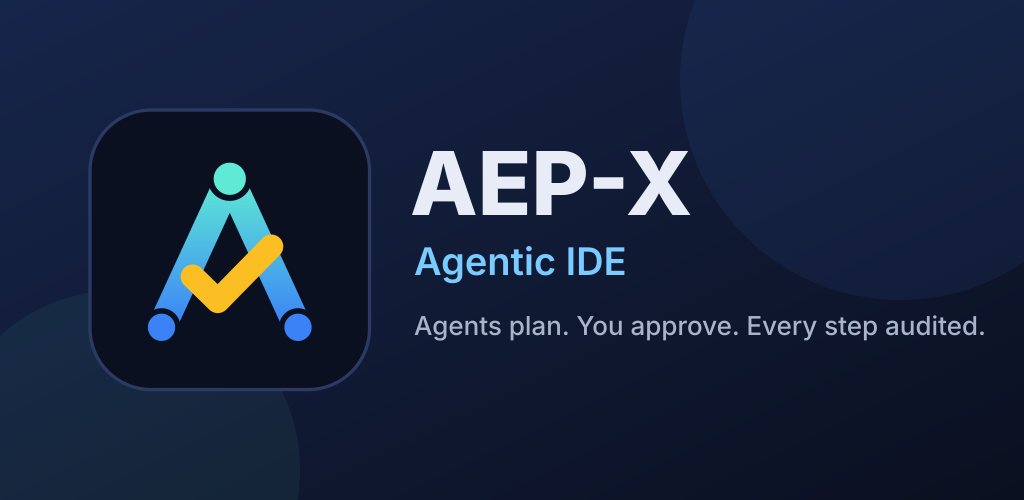
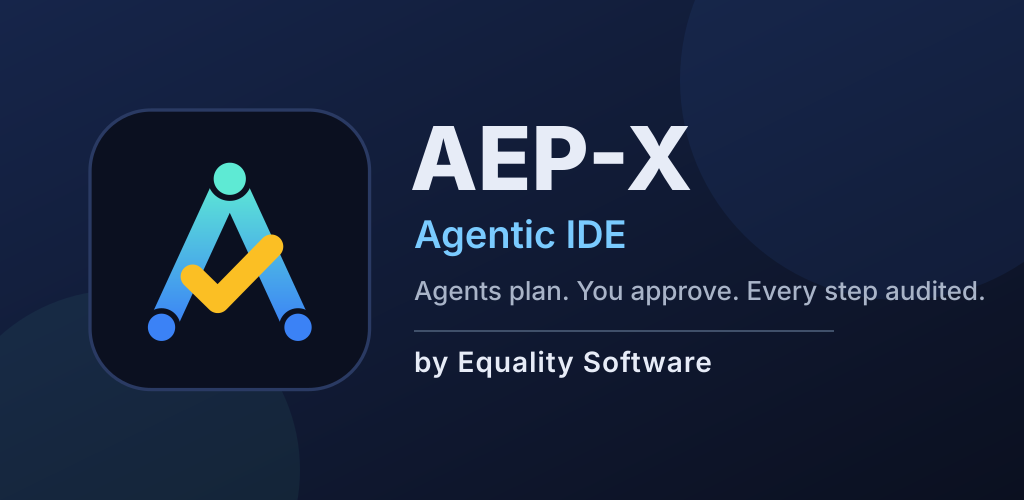
feat(brand): add 'by Equality Software' to the wordmark, Play feature graphic and website header
App icons stay text-free (illegible at launcher sizes; stores discourage text in icons).

Claude-Session: https://claude.ai/code/session_01T8qKsS8BzSyrUcBnX9VhwC

Changed region(s): [[0.4062, 0.24, 0.9688, 0.6], [0.4062, 0.63, 0.9688, 0.75]]

diff --git a/platform/saas-ide/distribution/website/wordpress/aepx-downloads-block.html b/platform/saas-ide/distribution/website/wordpress/aepx-downloads-block.html
@@ -5,7 +5,7 @@
 .aepx-page .hero{display:flex;gap:1.25rem;align-items:center;flex-wrap:wrap}
 .aepx-page .hero img{width:96px;height:96px}
 .aepx-page h1{margin:0;font-size:2.2rem;line-height:1.1;color:#e7ecf7}.aepx-page .tag{margin:.25rem 0 0;color:#7acbff;font-weight:600}
-.aepx-page h2{color:#e7ecf7}
+.aepx-page h2{color:#e7ecf7}.aepx-page .by{margin:.15rem 0 0;font-weight:600;letter-spacing:.02em}
 .aepx-page section{border:1px solid #40506a;border-radius:10px;padding:.5rem 1.25rem;margin:1rem 0}
 .aepx-page ul{list-style:none;padding:0;margin:0}
 .aepx-page li{display:flex;flex-wrap:wrap;gap:.5rem 1rem;align-items:center;padding:.5rem 0;border-top:1px solid #1f2a40}
@@ -18,7 +18,8 @@
 </style>
 <div class="aepx-page">
 <div class="hero"><img src="https://www.softwareequality.com/aepx/logo.svg" alt="AEP-X logo" width="96" height="96">
-<div><h1>AEP-X Agentic IDE</h1><p class="tag">Agents plan. You approve. Every step audited.</p></div></div>
+<div><h1>AEP-X Agentic IDE</h1><p class="tag">Agents plan. You approve. Every step audited.</p>
+<p class="muted by">by Equality Software</p></div></div>
 <p class="muted">Version 0.2.0 · updated 2026-11-15</p>
 <p>Plan work with an agent crew, approve every step, and keep a full audit trail: in your browser, on your desktop, on your phone, or inside your editor.
 Use it now on the web at <a href="https://ide.softwareequality.com/">ide.softwareequality.com</a>.</p>

diff --git a/platform/saas-ide/distribution/website-downloads.html b/platform/saas-ide/distribution/website-downloads.html
@@ -13,7 +13,7 @@
 .aepx-page .hero{display:flex;gap:1.25rem;align-items:center;flex-wrap:wrap}
 .aepx-page .hero img{width:96px;height:96px}
 .aepx-page h1{margin:0;font-size:2.2rem;line-height:1.1;color:#e7ecf7}.aepx-page .tag{margin:.25rem 0 0;color:#7acbff;font-weight:600}
-.aepx-page h2{color:#e7ecf7}
+.aepx-page h2{color:#e7ecf7}.aepx-page .by{margin:.15rem 0 0;font-weight:600;letter-spacing:.02em}
 .aepx-page section{border:1px solid #40506a;border-radius:10px;padding:.5rem 1.25rem;margin:1rem 0}
 .aepx-page ul{list-style:none;padding:0;margin:0}
 .aepx-page li{display:flex;flex-wrap:wrap;gap:.5rem 1rem;align-items:center;padding:.5rem 0;border-top:1px solid #1f2a40}
@@ -27,7 +27,8 @@
 <body>
 <div class="aepx-page">
 <div class="hero"><img src="logo.svg" alt="AEP-X logo" width="96" height="96">
-<div><h1>AEP-X Agentic IDE</h1><p class="tag">Agents plan. You approve. Every step audited.</p></div></div>
+<div><h1>AEP-X Agentic IDE</h1><p class="tag">Agents plan. You approve. Every step audited.</p>
+<p class="muted by">by Equality Software</p></div></div>
 <p class="muted">Version 0.2.0 · updated 2026-11-15</p>
 <p>Plan work with an agent crew, approve every step, and keep a full audit trail: in your browser, on your desktop, on your phone, or inside your editor.
 Use it now on the web at <a href="https://ide.softwareequality.com/">ide.softwareequality.com</a>.</p>

diff --git a/platform/saas-ide/distribution/website/static/aepx/index.html b/platform/saas-ide/distribution/website/static/aepx/index.html
@@ -13,7 +13,7 @@
 .aepx-page .hero{display:flex;gap:1.25rem;align-items:center;flex-wrap:wrap}
 .aepx-page .hero img{width:96px;height:96px}
 .aepx-page h1{margin:0;font-size:2.2rem;line-height:1.1;color:#e7ecf7}.aepx-page .tag{margin:.25rem 0 0;color:#7acbff;font-weight:600}
-.aepx-page h2{color:#e7ecf7}
+.aepx-page h2{color:#e7ecf7}.aepx-page .by{margin:.15rem 0 0;font-weight:600;letter-spacing:.02em}
 .aepx-page section{border:1px solid #40506a;border-radius:10px;padding:.5rem 1.25rem;margin:1rem 0}
 .aepx-page ul{list-style:none;padding:0;margin:0}
 .aepx-page li{display:flex;flex-wrap:wrap;gap:.5rem 1rem;align-items:center;padding:.5rem 0;border-top:1px solid #1f2a40}
@@ -27,7 +27,8 @@
 <body>
 <div class="aepx-page">
 <div class="hero"><img src="logo.svg" alt="AEP-X logo" width="96" height="96">
-<div><h1>AEP-X Agentic IDE</h1><p class="tag">Agents plan. You approve. Every step audited.</p></div></div>
+<div><h1>AEP-X Agentic IDE</h1><p class="tag">Agents plan. You approve. Every step audited.</p>
+<p class="muted by">by Equality Software</p></div></div>
 <p class="muted">Version 0.2.0 · updated 2026-11-15</p>
 <p>Plan work with an agent crew, approve every step, and keep a full audit trail: in your browser, on your desktop, on your phone, or inside your editor.
 Use it now on the web at <a href="https://ide.softwareequality.com/">ide.softwareequality.com</a>.</p>

diff --git a/platform/saas-ide/distribution/website/static/aepx/privacy.html b/platform/saas-ide/distribution/website/static/aepx/privacy.html
@@ -7,7 +7,7 @@
 .aepx-page .hero{display:flex;gap:1.25rem;align-items:center;flex-wrap:wrap}
 .aepx-page .hero img{width:96px;height:96px}
 .aepx-page h1{margin:0;font-size:2.2rem;line-height:1.1;color:#e7ecf7}.aepx-page .tag{margin:.25rem 0 0;color:#7acbff;font-weight:600}
-.aepx-page h2{color:#e7ecf7}
+.aepx-page h2{color:#e7ecf7}.aepx-page .by{margin:.15rem 0 0;font-weight:600;letter-spacing:.02em}
 .aepx-page section{border:1px solid #40506a;border-radius:10px;padding:.5rem 1.25rem;margin:1rem 0}
 .aepx-page ul{list-style:none;padding:0;margin:0}
 .aepx-page li{display:flex;flex-wrap:wrap;gap:.5rem 1rem;align-items:center;padding:.5rem 0;border-top:1px solid #1f2a40}

diff --git a/platform/saas-ide/distribution/website/wordpress/aepx-privacy-block.html b/platform/saas-ide/distribution/website/wordpress/aepx-privacy-block.html
@@ -5,7 +5,7 @@
 .aepx-page .hero{display:flex;gap:1.25rem;align-items:center;flex-wrap:wrap}
 .aepx-page .hero img{width:96px;height:96px}
 .aepx-page h1{margin:0;font-size:2.2rem;line-height:1.1;color:#e7ecf7}.aepx-page .tag{margin:.25rem 0 0;color:#7acbff;font-weight:600}
-.aepx-page h2{color:#e7ecf7}
+.aepx-page h2{color:#e7ecf7}.aepx-page .by{margin:.15rem 0 0;font-weight:600;letter-spacing:.02em}
 .aepx-page section{border:1px solid #40506a;border-radius:10px;padding:.5rem 1.25rem;margin:1rem 0}
 .aepx-page ul{list-style:none;padding:0;margin:0}
 .aepx-page li{display:flex;flex-wrap:wrap;gap:.5rem 1rem;align-items:center;padding:.5rem 0;border-top:1px solid #1f2a40}

diff --git a/platform/saas-ide/distribution/generate_downloads.py b/platform/saas-ide/distribution/generate_downloads.py
@@ -67,7 +67,7 @@ CSS = """
 .aepx-page .hero{display:flex;gap:1.25rem;align-items:center;flex-wrap:wrap}
 .aepx-page .hero img{width:96px;height:96px}
 .aepx-page h1{margin:0;font-size:2.2rem;line-height:1.1;color:#e7ecf7}.aepx-page .tag{margin:.25rem 0 0;color:#7acbff;font-weight:600}
-.aepx-page h2{color:#e7ecf7}
+.aepx-page h2{color:#e7ecf7}.aepx-page .by{margin:.15rem 0 0;font-weight:600;letter-spacing:.02em}
 .aepx-page section{border:1px solid #40506a;border-radius:10px;padding:.5rem 1.25rem;margin:1rem 0}
 .aepx-page ul{list-style:none;padding:0;margin:0}
 .aepx-page li{display:flex;flex-wrap:wrap;gap:.5rem 1rem;align-items:center;padding:.5rem 0;border-top:1px solid #1f2a40}
@@ -94,7 +94,8 @@ def body(manifest: dict, assets: str = "") -> str:
     a = html.escape(assets)
     return f"""<div class="aepx-page">
 <div class="hero"><img src="{a}logo.svg" alt="AEP-X logo" width="96" height="96">
-<div><h1>AEP-X Agentic IDE</h1><p class="tag">Agents plan. You approve. Every step audited.</p></div></div>
+<div><h1>AEP-X Agentic IDE</h1><p class="tag">Agents plan. You approve. Every step audited.</p>
+<p class="muted by">by Equality Software</p></div></div>
 <p class="muted">Version {version} · updated {updated}</p>
 <p>Plan work with an agent crew, approve every step, and keep a full audit trail: in your browser, on your desktop, on your phone, or inside your editor.
 Use it now on the web at <a href="https://ide.softwareequality.com/">ide.softwareequality.com</a>.</p>
